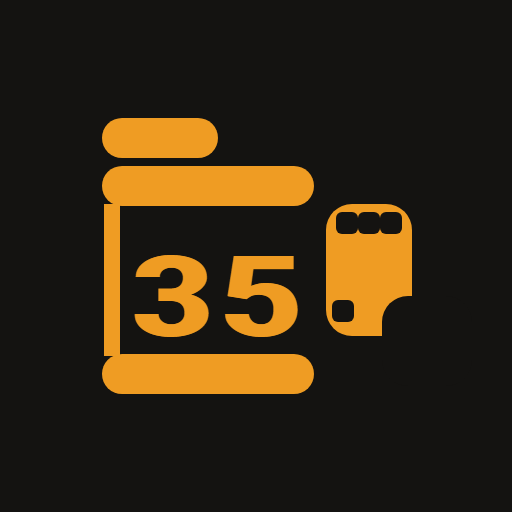
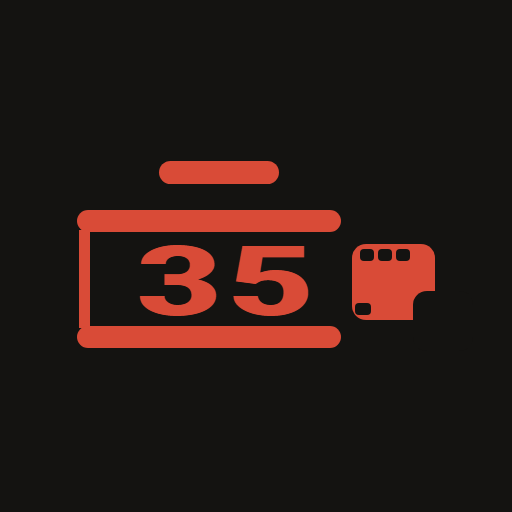
v27: brand mark back to the original proportions, drawn in the app red-orange #D94B37

Changed region(s): [[0.125, 0.2188, 0.875, 0.7812]]

diff --git a/sw.js b/sw.js
@@ -4,7 +4,7 @@
    Test pages and query-param URLs bypass the SW entirely.
    CACHE is bumped on every deploy; app.js compares it with its own BUILD and shows a
    RELOAD notice when the shipped build is older than this cache name. */
-const CACHE = 'pocketroll-v26'; // app.js compares BUILD with this; bump the two together when shipping a release users should reload for
+const CACHE = 'pocketroll-v27'; // app.js compares BUILD with this; bump the two together when shipping a release users should reload for
 const SHELL = ['./', 'index.html', 'app.js',
   'storage/database.js', 'storage/current-roll.js', 'storage/archive.js', 'storage/backup.js',
   'film/roll-manager.js', 'film/development.js',

diff --git a/app.js b/app.js
@@ -1391,7 +1391,7 @@ async function openFilmPreview(f){
    shipped with, so a stale cached app says a newer one exists instead of quietly staying
    behind — the user reloads on purpose rather than serving old code forever. BUILD and
    CACHE must be equal in any shipped commit: bump the two together, never apart. */
-const BUILD = 'pocketroll-v26';
+const BUILD = 'pocketroll-v27';
 async function checkNewVersion(){
   try {
     const res = await fetch('sw.js?cb=' + Date.now(), { cache: 'no-store' }); // a query bypasses the SW

diff --git a/docs/architecture.md b/docs/architecture.md
@@ -172,11 +172,14 @@ meta line, so a lab result can never be confused with a filter preset.
   quota (`navigator.storage.estimate()`), asks for `navigator.storage.persist()`, and states what
   survives refresh and offline.
 - **Brand mark**: `icon.svg`, `icon.png` (512, maskable-safe) and `icon-192.png` are rendered by
-  `node scripts/make-icon.mjs` — the 35mm can with the strip and the `35` in the bundled brand
-  face, drawn in `#ef9c23` (the develop-orange × amber blend that reads as orange-yellow) on the
-  splash ground `#141311`. The PNGs are generated, never hand-edited; the manifest points at both
-  sizes and iOS reads `apple-touch-icon`, so an installed shortcut on Android and iPhone gets the
-  same mark. Chrome caches the icon of an already-installed app, so a new mark needs a re-install.
+-   `node scripts/make-icon.mjs` at the proportions of the original mark: a lid bar above a wide
+   top rim and bottom rim, only the LEFT edge of the body, and a short film strip coming out on
+   the right — the sprocket holes and the carved corner are ground-colour cut-outs, so the mark
+   never uses a third colour — with the `35` in the bundled brand face filling the body. Drawn in
+   `#D94B37`, the exact colour the header prints its `35` in (`--red`), on the splash ground
+   `#141311`. The PNGs are generated, never hand-edited; the manifest points at both sizes and iOS
+   reads `apple-touch-icon`, so an installed shortcut on Android and iPhone gets the same mark.
+   Chrome caches the icon of an already-installed app, so a new mark needs a re-install.
 - **Build notice**: `sw.js` only caches `res.ok` responses and never fails a request over a cache
   write; `CACHE` in sw.js and `BUILD` in app.js are bumped together on deploy, and a mismatch shows
   "NEW VERSION AVAILABLE · RELOAD" instead of quietly running an older build.
